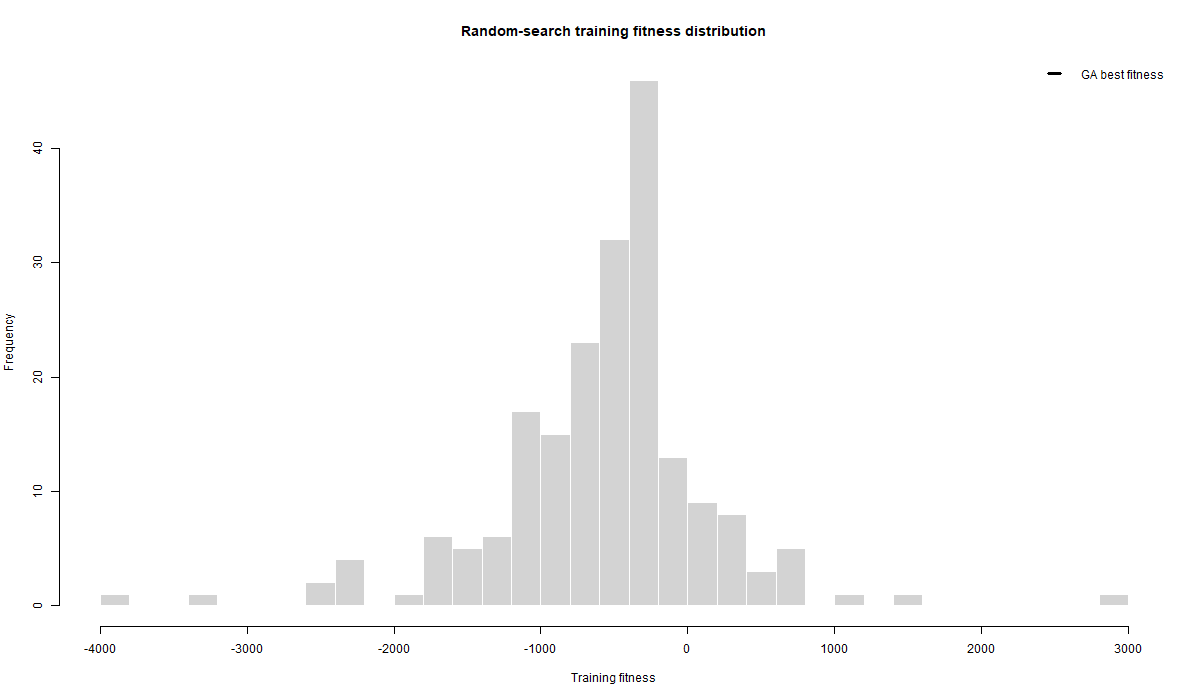
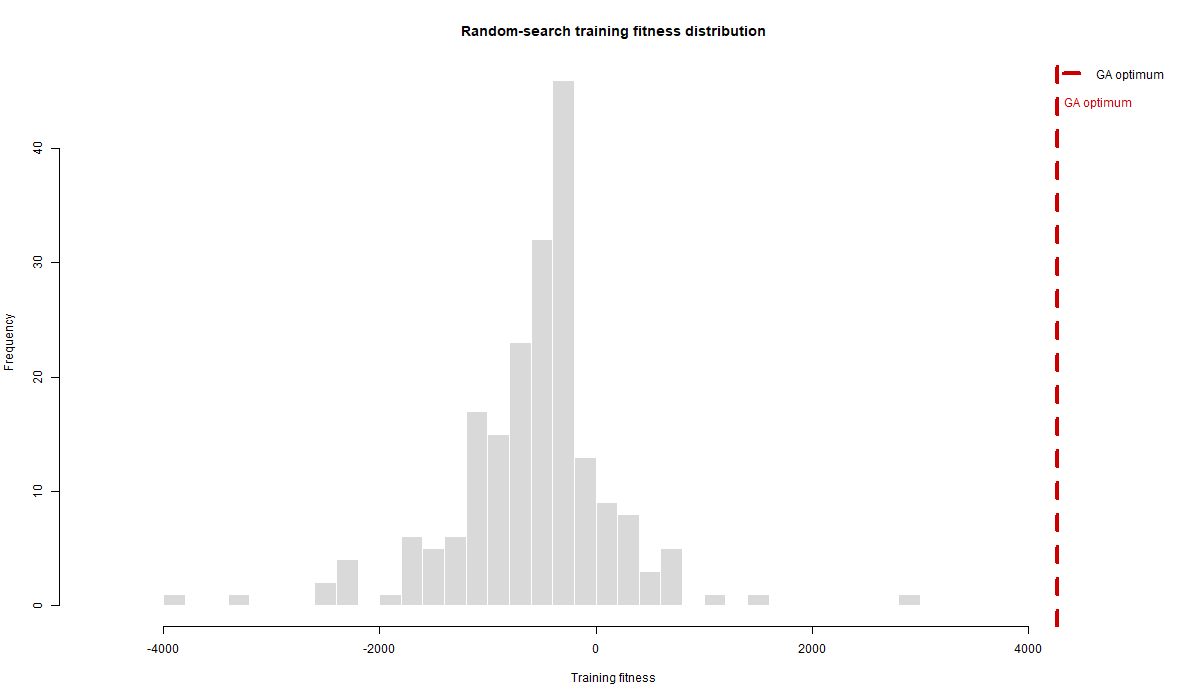
Address trading strategy evaluation feedback

diff --git a/genetic-algorithms-portfolio-optimisation/reports/methodology_report.md b/genetic-algorithms-portfolio-optimisation/reports/methodology_report.md
@@ -22,6 +22,8 @@ Repair logic enforces sensible parameter ordering, such as `MACD slow > MACD fas
 
 The strategy is optimised on data ending 2021-12-31 and tested from 2022 onward. Signals are generated from information available at close on day `t`, while orders execute at the open of day `t + 1`. This reduces look-ahead bias and makes the backtest more realistic than same-close execution.
 
+The split is also economically demanding because the training period ends close to a local GOOG peak before the 2022 drawdown. The test period is therefore not just unseen data; it is a weaker market regime. This strengthens the usefulness of the out-of-sample drawdown comparison, while also limiting any claim that one split is enough to prove broad robustness.
+
 ## Benchmarks
 
 The GA strategy is compared against:
@@ -33,10 +35,12 @@ The GA strategy is compared against:
 
 All strategies use the same cost and slippage assumptions where applicable.
 
+The project uses GA as the main optimiser. Random search is included to check whether guided evolutionary search improves on unguided sampling, but the design does not compare GA against other optimiser families such as particle swarm optimisation, differential evolution or Bayesian optimisation.
+
 ## Key Finding
 
 The GA improves substantially over the fixed baseline and the mean random strategy out of sample. However, buy-and-hold still earns more raw profit over the test window, while the best random draw is slightly ahead of the GA. The strongest interpretation is therefore that evolutionary search produced a profitable, lower-drawdown active timing rule, not a dominant trading system that beats all benchmarks.
 
 ## Limitations
 
-The evidence comes from one asset, one train/test split and daily bars. The strategy does not model taxes, borrow frictions, liquidity constraints beyond simple costs, or intraday execution risk. Future work should add walk-forward validation, multi-asset testing and a richer transaction-cost model.
+The evidence comes from one asset, one train/test split and daily bars. The strategy does not model taxes, borrow frictions, liquidity constraints beyond simple costs, or intraday execution risk. Future work should add walk-forward validation, multi-asset testing, alternative optimisers and a richer transaction-cost model.

diff --git a/genetic-algorithms-portfolio-optimisation/README.md b/genetic-algorithms-portfolio-optimisation/README.md
@@ -25,6 +25,8 @@ The central research question is whether evolutionary search can produce a defen
 - Costs: flat commission plus slippage
 - Risk management: ATR stop, ATR trailing stop, maximum holding period and capped risk fraction
 
+The train/test split is interpreted as a demanding validation setting: the training sample ends close to a local GOOG peak before the 2022 drawdown. This makes the test period useful for evaluating whether the strategy can reduce exposure during a weaker regime, but it also limits claims about general market-wide robustness.
+
 ## Results Summary
 
 | Test-period strategy | Net profit | Total return | Sharpe | Max drawdown | Trades |
@@ -36,6 +38,8 @@ The central research question is whether evolutionary search can produce a defen
 | Mean random solution | GBP 108.89 | n/a | 0.03 | n/a | n/a |
 
 The GA strategy remains profitable out of sample and clearly improves on the fixed baseline and the mean random solution. It does not dominate buy-and-hold on raw return, and the best random draw remains competitive. The strongest defensible claim is therefore narrower and more useful: the GA produced a lower-drawdown active timing rule with positive out-of-sample performance, but not a universally superior trading strategy.
+
+Only GA is used as the main optimiser in this version. Random search is included as a benchmark, but a fuller optimisation study would also compare against particle swarm optimisation, differential evolution or Bayesian optimisation.
 
 ## Repository Structure
 